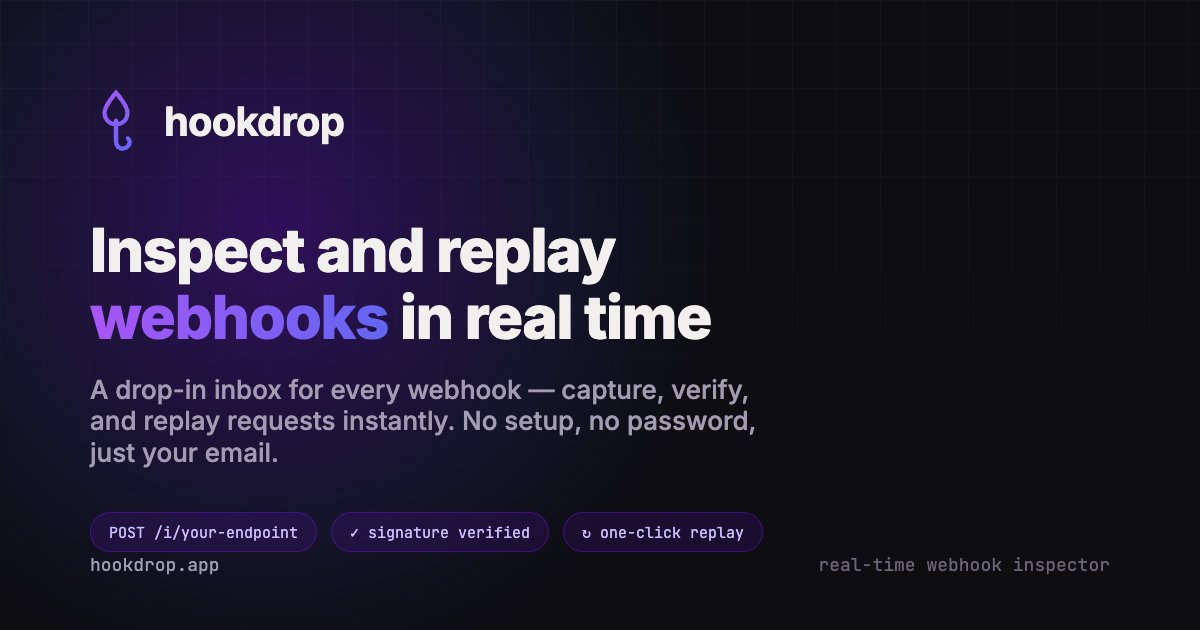
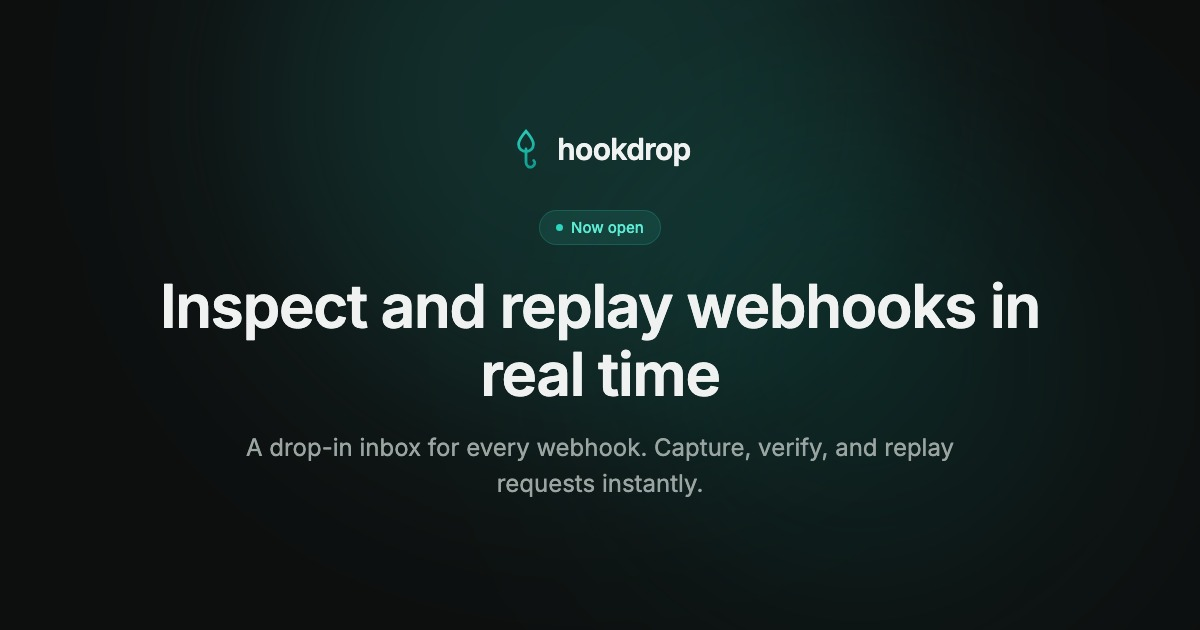
restrictured texts

diff --git a/ui/src/pages/LandingPage.tsx b/ui/src/pages/LandingPage.tsx
@@ -20,7 +20,7 @@ const FEATURES: { icon: (p: { className?: string }) => ReactNode; title: string;
   {
     icon: ClockIcon,
     title: 'Instant capture',
-    description: 'The moment a webhook hits your URL it shows up in the feed — no refresh, no polling.',
+    description: 'The moment a webhook hits your URL, it shows up in the feed. No refresh, no polling.',
   },
   {
     icon: CheckCircleIcon,
@@ -35,18 +35,18 @@ const FEATURES: { icon: (p: { className?: string }) => ReactNode; title: string;
   {
     icon: RefreshCwIcon,
     title: 'Replay anywhere',
-    description: 'Replay a captured request to your local server as many times as you need — no re-triggering from the provider.',
+    description: 'Replay a captured request to your local server as many times as you need, with no re-triggering from the provider.',
   },
 ]
 
 const STEPS = [
   {
     title: 'Get your inbox URL',
-    description: 'Sign in with just your email — a unique webhook URL is ready instantly.',
+    description: 'Sign in with just your email, and a unique webhook URL is ready instantly.',
   },
   {
     title: 'Point your provider at it',
-    description: "Stripe, Paystack, GitHub, Shopify — anything that sends webhooks.",
+    description: "Stripe, Paystack, GitHub, Shopify: anything that sends webhooks.",
   },
   {
     title: 'Watch requests land live',
@@ -127,7 +127,7 @@ export function LandingPage({ errorHint }: LandingPageProps) {
 
             <p className="text-muted text-base lg:text-lg leading-relaxed max-w-md mx-auto lg:mx-0">
               A drop-in inbox for every webhook. Capture, verify, and replay
-              requests instantly — no setup, no password, just your email.
+              requests instantly. No setup, no password, just your email.
             </p>
 
             {/* Signup form */}
@@ -178,7 +178,7 @@ export function LandingPage({ errorHint }: LandingPageProps) {
             </div>
           </div>
 
-          {/* Mock live feed panel — built from the real product components */}
+          {/* Mock live feed panel, built from the real product components */}
           <div className="relative">
             <div className="rounded-xl border border-border bg-surface/60 shadow-[0_0_60px_-20px_rgba(45,212,191,0.35)] overflow-hidden">
               <div className="flex items-center justify-between px-4 py-3 border-b border-border">

diff --git a/ui/index.html b/ui/index.html
@@ -5,13 +5,13 @@
     <link rel="icon" type="image/svg+xml" href="/favicon.svg" />
     <meta name="viewport" content="width=device-width, initial-scale=1.0" />
     <title>hookdrop - Inspect and replay webhooks in real time</title>
-    <meta name="description" content="A drop-in inbox for every webhook. Capture, verify, and replay requests instantly — no setup, no password, just your email." />
+    <meta name="description" content="A drop-in inbox for every webhook. Capture, verify, and replay requests instantly. No setup, no password, just your email." />
 
     <!-- Open Graph -->
     <meta property="og:type" content="website" />
     <meta property="og:site_name" content="hookdrop" />
     <meta property="og:title" content="Inspect and replay webhooks in real time" />
-    <meta property="og:description" content="A drop-in inbox for every webhook. Capture, verify, and replay requests instantly — no setup, no password, just your email." />
+    <meta property="og:description" content="A drop-in inbox for every webhook. Capture, verify, and replay requests instantly. No setup, no password, just your email." />
     <meta property="og:image" content="https://hookdrop.app/og-image.jpg" />
     <meta property="og:image:type" content="image/jpeg" />
     <meta property="og:image:width" content="1200" />
@@ -20,7 +20,7 @@
     <!-- Twitter Card -->
     <meta name="twitter:card" content="summary_large_image" />
     <meta name="twitter:title" content="Inspect and replay webhooks in real time" />
-    <meta name="twitter:description" content="A drop-in inbox for every webhook. Capture, verify, and replay requests instantly — no setup, no password, just your email." />
+    <meta name="twitter:description" content="A drop-in inbox for every webhook. Capture, verify, and replay requests instantly. No setup, no password, just your email." />
     <meta name="twitter:image" content="https://hookdrop.app/og-image.jpg" />
   </head>
   <body>

diff --git a/internal/email/resend.go b/internal/email/resend.go
@@ -59,17 +59,17 @@ func buildEmailHTML(magicURL string) string {
 	return fmt.Sprintf(`
 <!DOCTYPE html>
 <html>
-<body style="font-family: sans-serif; background: #09090b; color: #fafafa; padding: 40px;">
+<body style="font-family: sans-serif; background: #0d0f0f; color: #f0f2f1; padding: 40px;">
   <div style="max-width: 480px; margin: 0 auto;">
     <h1 style="font-size: 24px; margin-bottom: 8px;">⚡ hookdrop</h1>
-    <p style="color: #a1a1aa; margin-bottom: 32px;">Click the button below to log in. This link expires in 15 minutes and can only be used once.</p>
+    <p style="color: #9aa5a2; margin-bottom: 32px;">Click the button below to log in. This link expires in 15 minutes and can only be used once.</p>
     <a href="%s"
-       style="display: inline-block; background: #10b981; color: white;
+       style="display: inline-block; background: #0d9488; color: white;
               padding: 12px 24px; border-radius: 8px; text-decoration: none;
               font-weight: 600; font-size: 14px;">
       Log in to hookdrop
     </a>
-    <p style="color: #52525b; font-size: 12px; margin-top: 32px;">
+    <p style="color: #62726c; font-size: 12px; margin-top: 32px;">
       If you didn't request this, you can safely ignore it.
     </p>
   </div>